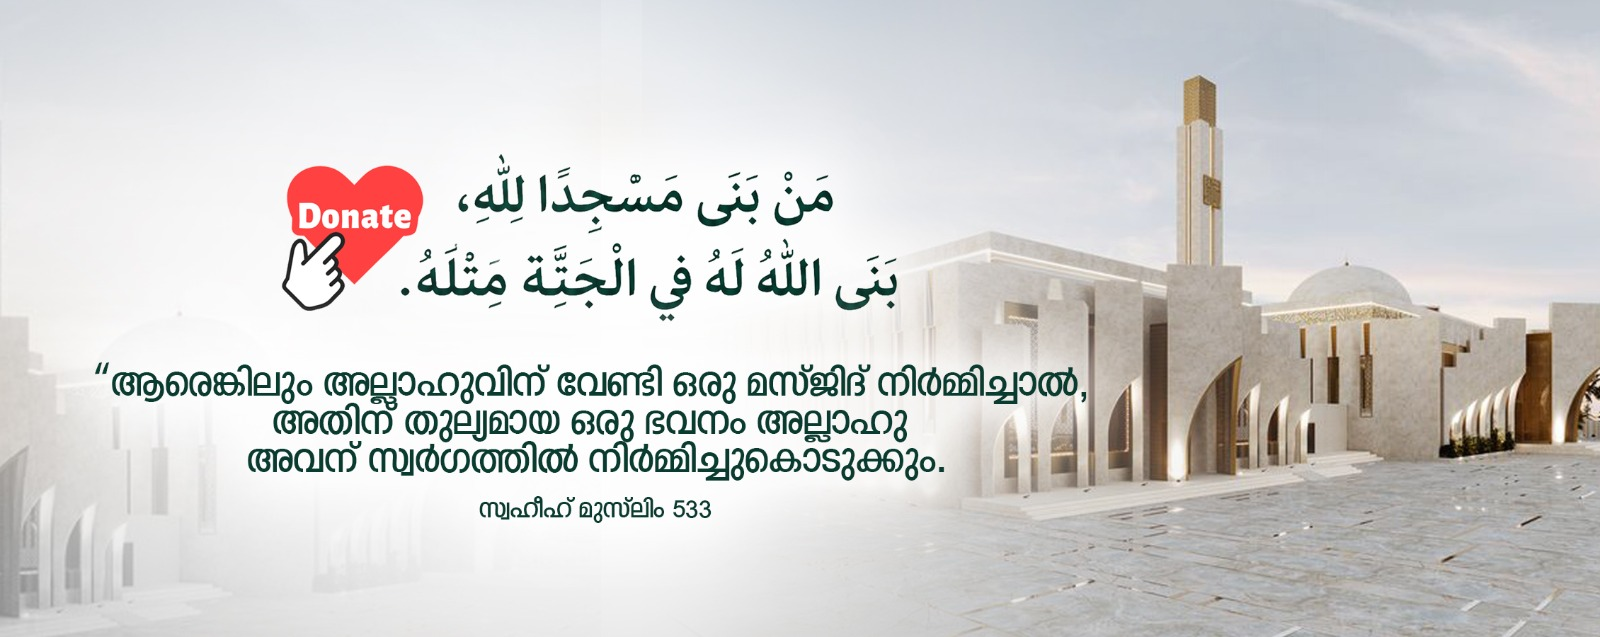
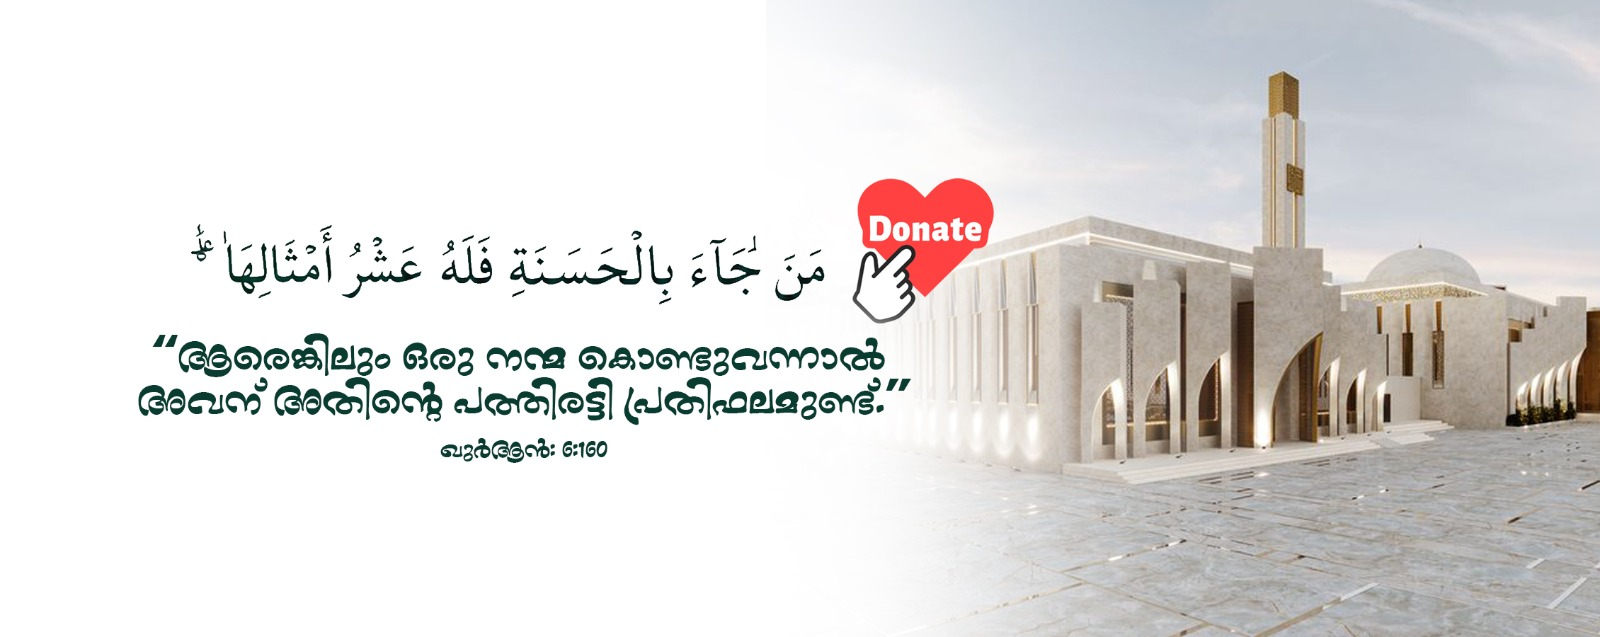
style: simplify offer progress bar to minimalist 1, 2, 3 indicators without text

diff --git a/src/app/offer/page.tsx b/src/app/offer/page.tsx
@@ -302,31 +302,24 @@ function OfferWorkflowContent() {
           <div style={{
             background: '#FFFFFF',
             borderRadius: '16px',
-            padding: '16px 20px',
+            padding: '12px 20px',
             border: '1px solid var(--border-light)',
             boxShadow: 'var(--shadow-sm)',
-            marginBottom: '24px',
+            marginBottom: '20px',
           }}>
             <div style={{
               display: 'flex',
               alignItems: 'center',
-              justifyContent: 'space-between',
-              position: 'relative',
+              justifyContent: 'center',
+              maxWidth: '280px',
+              margin: '0 auto',
             }}>
               {/* Step 1 Indicator */}
               <div
                 onClick={() => { if (currentStep > 1) setCurrentStep(1); }}
                 style={{
-                  display: 'flex',
-                  alignItems: 'center',
-                  gap: '8px',
-                  cursor: currentStep > 1 ? 'pointer' : 'default',
-                  opacity: currentStep === 1 ? 1 : 0.8,
-                }}
-              >
-                <div style={{
-                  width: '32px',
-                  height: '32px',
+                  width: '26px',
+                  height: '26px',
                   borderRadius: '50%',
                   background: currentStep >= 1 ? 'var(--brand-800)' : '#E2E8F0',
                   color: '#FFFFFF',
@@ -334,24 +327,22 @@ function OfferWorkflowContent() {
                   alignItems: 'center',
                   justifyContent: 'center',
                   fontWeight: 800,
-                  fontSize: '0.9rem',
-                }}>
-                  {currentStep > 1 ? <Check size={16} /> : '1'}
-                </div>
-                <div>
-                  <strong style={{ fontSize: '0.85rem', color: currentStep === 1 ? 'var(--brand-900)' : '#64748B', display: 'block' }}>
-                    1. Offer Details
-                  </strong>
-                  <span style={{ fontSize: '0.72rem', color: '#94A3B8' }}>ഓഫർ വിവരങ്ങൾ</span>
-                </div>
+                  fontSize: '0.8rem',
+                  cursor: currentStep > 1 ? 'pointer' : 'default',
+                  transition: 'all 0.2s ease',
+                  flexShrink: 0,
+                  boxShadow: currentStep === 1 ? '0 0 0 3px rgba(6, 78, 59, 0.15)' : 'none',
+                }}
+              >
+                {currentStep > 1 ? <Check size={14} /> : '1'}
               </div>
 
               {/* Connecting Line 1-2 */}
               <div style={{
                 flex: 1,
-                height: '3px',
+                height: '2.5px',
                 background: currentStep >= 2 ? 'var(--brand-700)' : '#E2E8F0',
-                margin: '0 12px',
+                margin: '0 10px',
                 borderRadius: '9999px',
                 transition: 'background 0.3s ease',
               }} />
@@ -360,16 +351,8 @@ function OfferWorkflowContent() {
               <div
                 onClick={() => { if (currentStep > 2) setCurrentStep(2); }}
                 style={{
-                  display: 'flex',
-                  alignItems: 'center',
-                  gap: '8px',
-                  cursor: currentStep > 2 ? 'pointer' : 'default',
-                  opacity: currentStep === 2 ? 1 : currentStep > 2 ? 0.8 : 0.6,
-                }}
-              >
-                <div style={{
-                  width: '32px',
-                  height: '32px',
+                  width: '26px',
+                  height: '26px',
                   borderRadius: '50%',
                   background: currentStep >= 2 ? 'var(--brand-800)' : '#E2E8F0',
                   color: currentStep >= 2 ? '#FFFFFF' : '#64748B',
@@ -377,55 +360,43 @@ function OfferWorkflowContent() {
                   alignItems: 'center',
                   justifyContent: 'center',
                   fontWeight: 800,
-                  fontSize: '0.9rem',
-                }}>
-                  {currentStep > 2 ? <Check size={16} /> : '2'}
-                </div>
-                <div>
-                  <strong style={{ fontSize: '0.85rem', color: currentStep === 2 ? 'var(--brand-900)' : '#64748B', display: 'block' }}>
-                    2. Payment Plan
-                  </strong>
-                  <span style={{ fontSize: '0.72rem', color: '#94A3B8' }}>പെയ്മെന്റ് പ്ലാൻ</span>
-                </div>
+                  fontSize: '0.8rem',
+                  cursor: currentStep > 2 ? 'pointer' : 'default',
+                  transition: 'all 0.2s ease',
+                  flexShrink: 0,
+                  boxShadow: currentStep === 2 ? '0 0 0 3px rgba(6, 78, 59, 0.15)' : 'none',
+                }}
+              >
+                {currentStep > 2 ? <Check size={14} /> : '2'}
               </div>
 
               {/* Connecting Line 2-3 */}
               <div style={{
                 flex: 1,
-                height: '3px',
+                height: '2.5px',
                 background: currentStep >= 3 ? 'var(--brand-700)' : '#E2E8F0',
-                margin: '0 12px',
+                margin: '0 10px',
                 borderRadius: '9999px',
                 transition: 'background 0.3s ease',
               }} />
 
               {/* Step 3 Indicator */}
               <div style={{
+                width: '26px',
+                height: '26px',
+                borderRadius: '50%',
+                background: currentStep === 3 ? 'var(--brand-800)' : '#E2E8F0',
+                color: currentStep === 3 ? '#FFFFFF' : '#64748B',
                 display: 'flex',
                 alignItems: 'center',
-                gap: '8px',
-                opacity: currentStep === 3 ? 1 : 0.6,
+                justifyContent: 'center',
+                fontWeight: 800,
+                fontSize: '0.8rem',
+                flexShrink: 0,
+                transition: 'all 0.2s ease',
+                boxShadow: currentStep === 3 ? '0 0 0 3px rgba(6, 78, 59, 0.15)' : 'none',
               }}>
-                <div style={{
-                  width: '32px',
-                  height: '32px',
-                  borderRadius: '50%',
-                  background: currentStep === 3 ? 'var(--brand-800)' : '#E2E8F0',
-                  color: currentStep === 3 ? '#FFFFFF' : '#64748B',
-                  display: 'flex',
-                  alignItems: 'center',
-                  justifyContent: 'center',
-                  fontWeight: 800,
-                  fontSize: '0.9rem',
-                }}>
-                  3
-                </div>
-                <div>
-                  <strong style={{ fontSize: '0.85rem', color: currentStep === 3 ? 'var(--brand-900)' : '#64748B', display: 'block' }}>
-                    3. Review &amp; Confirm
-                  </strong>
-                  <span style={{ fontSize: '0.72rem', color: '#94A3B8' }}>സ്ഥിരീകരിക്കുക</span>
-                </div>
+                3
               </div>
             </div>
           </div>
